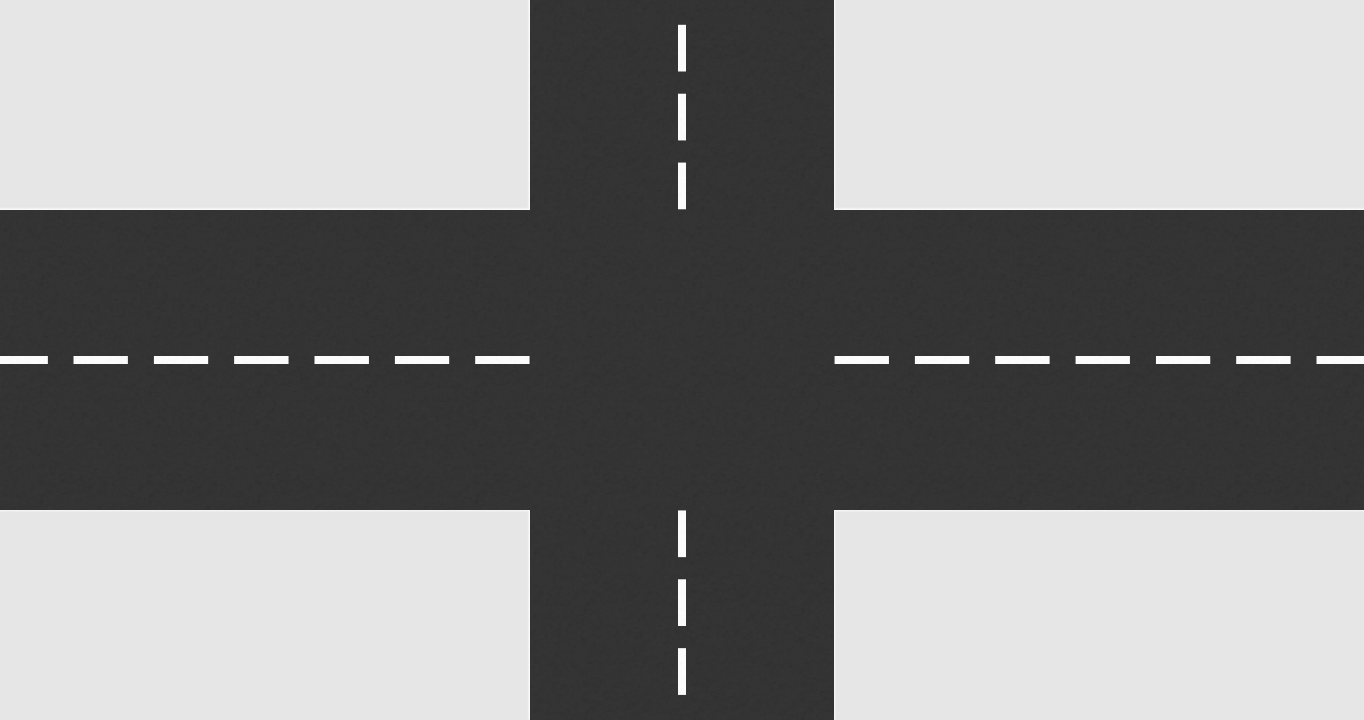
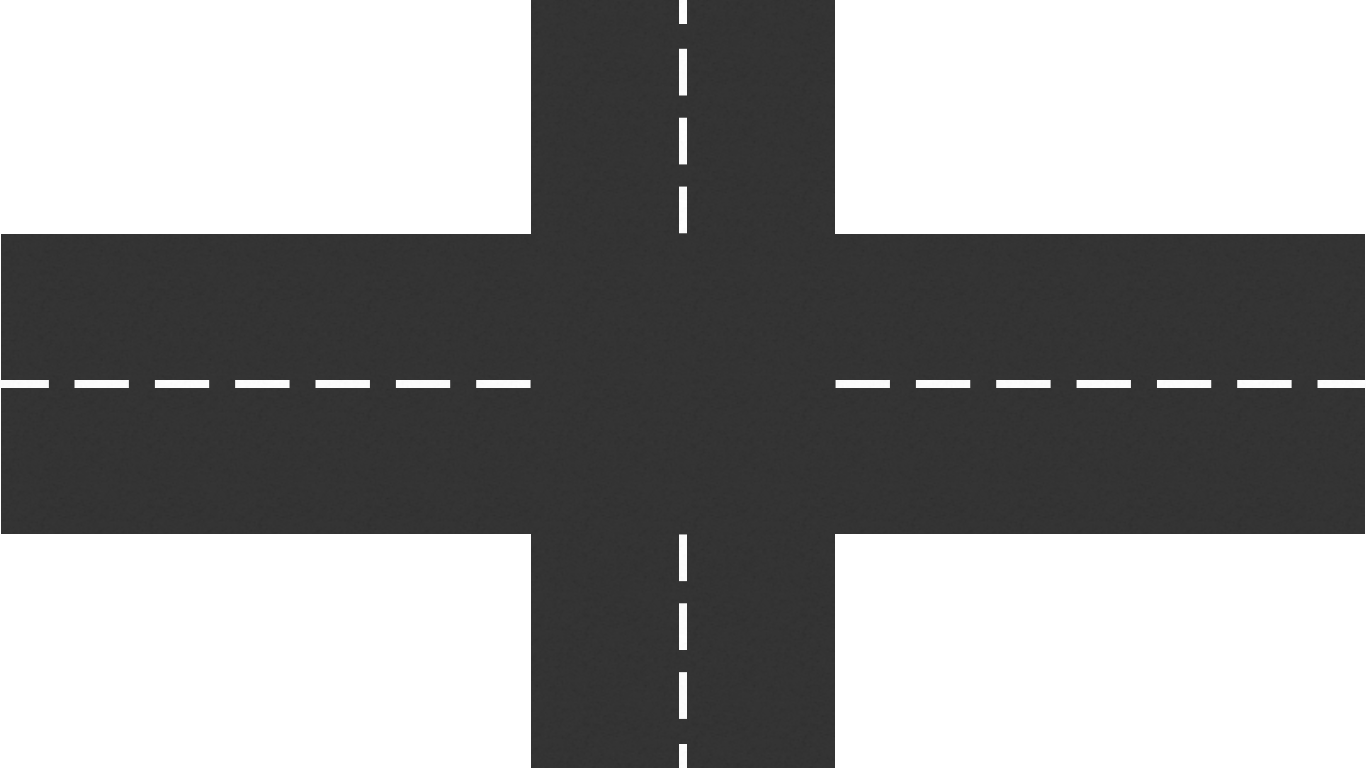
Add individual text labels; better window drawing and image positioning
All (many) elements are drawn with respect to the size of the crossroad (never change the crossroad!)
Bigger crossroad! (1376x768)
Can resize the window (thanks to Layout instead of Fixed)
Resize elements during window resize (bad way of stopping propagation...)
Cars positioned correctly

diff --git a/monitor/monitor/MainWindow.cs b/monitor/monitor/MainWindow.cs
@@ -5,51 +5,85 @@ using monitor;
 
 public partial class MainWindow : Gtk.Window
 {
-	// FIXED WINDOW PARAMETERS //TODO: that's shit
-	int width = 1364;
-	int height = 720;
+	// FIXED WINDOW PARAMETERS
+    int rRadW = 152;
+    int rRadH = 150;
 
 	string resDiv = "_";
 	string imageExtension = ".png";
 	string unknownImagePath;
 
-	Fixed container;
-	TextView actionText; // The textview with the text with the actions to show;
+    bool stopPropagate;
+
+	Layout container;
 	Image crossroadImage;
-	Dictionary<RoadID, Image> roads;
+    Dictionary<RoadID, Tuple<Image, Label>> roads;
 
 
 
 	public MainWindow() : base(Gtk.WindowType.Toplevel)
 	{
 		Build();
+        Resize(1000, 700);
 
-		Resize(width, height);
+        unknownImagePath = "monitor.resources.car" + resDiv + "Unknown" + resDiv + "Unknown" + imageExtension;
 
-		// The global container
-		container = new Fixed();
-		roads = new Dictionary<RoadID, Image>();
-		//ModifyBase(StateType.Normal, new Gdk.Color(255,255,255));
-		//container.ModifyBase(StateType.Normal, new Gdk.Color(255, 255, 255));
+        container = new Layout(null, null);
+        roads = new Dictionary<RoadID, Tuple<Image, Label>>();
 
-		// Create Widgets to put into the Fixed container
-
+        // Create Widgets to put into the Fixed container
 		crossroadImage = Image.LoadFromResource("monitor.resources.crossroad.png");
-		crossroadImage.RedrawOnAllocate = true;
-		unknownImagePath = "monitor.resources.car" + resDiv + "Unknown" + resDiv + "Unknown" + imageExtension;
-
-        actionText = new TextView()
+        //crossroadImage.RedrawOnAllocate = true;
+        SizeRequested += delegate
         {
-            Editable = false
+            Console.WriteLine("Window sizeRequested " + Allocation.Width + "-" + Allocation.Height);
         };
-        actionText.SetSizeRequest(505, 195);
-		actionText.ModifyBase(StateType.Normal, new Gdk.Color(230, 230, 230));
-		actionText.ModifyFont(Pango.FontDescription.FromString("Arial 20"));
-		actionText.Buffer.Text = "I'm a cereal Listener\n";
+        SizeAllocated += delegate
+        {
+            Console.WriteLine("Window sizeAllocated " + Allocation.Width + "-" + Allocation.Height);
+            //crossroadImage.SetSizeRequest(container.Allocation.Width, container.Allocation.Height);
+            if (!stopPropagate)
+            {
+                ResizeAll(); //FIXME 
+                stopPropagate = true;
+            }
+      };
 
-		// Put the Widgets inside the container
-		container.Put(crossroadImage, 0, 0);
-		container.Put(actionText, width / 2 + 160, 5);
+        container.Put(crossroadImage, 0, 0);
+
+		// Create a textview for each car in the road
+		var roadvalues = (RoadID[])Enum.GetValues(typeof(RoadID));
+        foreach (RoadID road in roadvalues)
+		{
+            Label l = new Label();
+			l.SetSizeRequest(280, 120);
+			l.ModifyBase(StateType.Normal, new Gdk.Color(230, 230, 230));
+			l.ModifyFont(Pango.FontDescription.FromString("Arial 20"));
+            l.Text = MakeCarText("", "", Priority.None, monitor.Action.None, monitor.Action.None);
+            if (road == RoadID.Left || road == RoadID.Top)
+                l.Justify = Justification.Right;
+
+            roads.Add(road, Tuple.Create((Image)null, l));
+            switch(road)
+            {
+                case (RoadID.Bottom):
+                    container.Put(l, crossroadImage.Allocation.Width / 2 + rRadW,
+                                     crossroadImage.HeightRequest / 2 + rRadH);
+                    break;
+				case (RoadID.Left):
+                    container.Put(l, crossroadImage.WidthRequest / 2 - rRadW - l.SizeRequest().Width,
+                                     crossroadImage.HeightRequest / 2 + rRadH);
+					break;
+				case (RoadID.Top):
+					container.Put(l, crossroadImage.WidthRequest / 2 - rRadW - l.SizeRequest().Width,
+                                     crossroadImage.HeightRequest / 2 - rRadH - l.SizeRequest().Height);
+					break;
+				case (RoadID.Right):
+					container.Put(l, crossroadImage.WidthRequest / 2 + rRadW,
+                                     crossroadImage.HeightRequest / 2 - rRadH - l.SizeRequest().Height);
+					break;
+            }
+		}
 
 		// Put the container in the window
 		Add(container);
@@ -59,31 +93,35 @@ public partial class MainWindow : Gtk.Window
 
 	public void UpdateRoad(Road road)
 	{
+        roads.TryGetValue(road.Id, out Tuple<Image, Label> car);
+        string expectedImagePath = "monitor.resources.car" + resDiv + road.Manufacturer + resDiv + road.Model + imageExtension;
+
+		// Update text beside the car
 		Gtk.Application.Invoke(delegate
 		{
-			actionText.Buffer.Text += road.Id + " " + road.Manufacturer + '\n';
+            car.Item2.Text = MakeCarText(road.Manufacturer, road.Model, road.Priority, road.RequestedAction, road.CurrentAction);
 		});
 
-        string expectedImagePath = "monitor.resources.car" + resDiv + road.Manufacturer + resDiv + road.Model + imageExtension;
-        if (roads.TryGetValue(road.Id, out Image car))
+        // Update car image
+        if (car.Item1 != null)
 		{
 			// Image present, I check whether I have to update its image
-			string prevPath = car.Name;
+			string prevPath = car.Item1.Name;
 			if (prevPath != (road.Id + expectedImagePath))
 			{
-				RemoveCar(prevPath);
-				roads.Remove(road.Id);
-
-				car = LoadCarImage(expectedImagePath, road.Id);
-				roads.Add(road.Id, car);
-				PlaceCar(car, road);
+                // The car has changed. Load the new image and place it;
+			    Image carImg = LoadCarImage(expectedImagePath, road.Id);
+                roads[road.Id] = Tuple.Create(carImg, car.Item2);
+                RemoveCar(prevPath);
+				PlaceCar(carImg, road);
 			}
 		}
 		else
 		{
-			car = LoadCarImage(expectedImagePath, road.Id);
-			roads.Add(road.Id, car);
-			PlaceCar(car, road);
+			Image carImg = LoadCarImage(expectedImagePath, road.Id);
+			//roads.Add(road.Id, car);
+            roads[road.Id] = Tuple.Create(carImg, car.Item2);
+			PlaceCar(carImg, road);
  		}
 	}
 
@@ -128,32 +166,123 @@ public partial class MainWindow : Gtk.Window
 
     void PlaceCar(Image car, Road road)
 	{
-		int crWidth = crossroadImage.Allocation.Width;
-		int crHeight = crossroadImage.Allocation.Height;
+        int crossW = crossroadImage.Allocation.Width;
+        int crossH = crossroadImage.Allocation.Height;
+        int carLong = car.Pixbuf.Height;
+        int carShort = car.Pixbuf.Width;
+        int stepToMiddleLongW = (rRadW - carLong) / 2;
+        int stepToMiddleShortW = (rRadW - carShort) / 2;
+        int stepToMiddleLongH = (rRadH - carLong) / 2;
+        int stepToMiddleShortH = (rRadH - carShort) / 2;
 
 		Gtk.Application.Invoke(delegate
 		{
 			switch (road.Id)
 			{
-			case RoadID.Bottom:
-				container.Put(car, crWidth / 2 + 10, crHeight / 2 + 200);
-				break;
-			case RoadID.Left:
-				car.Pixbuf = car.Pixbuf.RotateSimple(Gdk.PixbufRotation.Clockwise);
-				container.Put(car, crWidth / 2 - 200, crHeight / 2);
-				break;
-			case RoadID.Top:
-				car.Pixbuf = car.Pixbuf.RotateSimple(Gdk.PixbufRotation.Upsidedown);
-				container.Put(car, crWidth / 2 - car.Pixbuf.Width - 10, crHeight / 2 - 200);
-				break;
-			case RoadID.Right:
-				car.Pixbuf = car.Pixbuf.RotateSimple(Gdk.PixbufRotation.Counterclockwise);
-				container.Put(car, crWidth / 2 + 200, crHeight / 2 - car.Pixbuf.Height);
-				break;
+                case RoadID.Bottom:
+                    container.Put(car, crossW / 2 + stepToMiddleShortW, crossH / 2 + rRadH);
+                    break;
+				case RoadID.Left:
+					car.Pixbuf = car.Pixbuf.RotateSimple(Gdk.PixbufRotation.Clockwise);
+                    container.Put(car, crossW / 2 - rRadW - carLong, crossH / 2 + stepToMiddleShortH);
+					break;
+				case RoadID.Top:
+					car.Pixbuf = car.Pixbuf.RotateSimple(Gdk.PixbufRotation.Upsidedown);
+                    container.Put(car, crossW / 2 - rRadW + stepToMiddleShortW, crossH / 2 - rRadW - carLong);
+					break;
+				case RoadID.Right:
+					car.Pixbuf = car.Pixbuf.RotateSimple(Gdk.PixbufRotation.Counterclockwise);
+                    container.Put(car, crossW / 2 + rRadW, crossH / 2 - rRadH + stepToMiddleShortH);
+					break;
 			}
 			container.ShowAll();
 		});
 	}
+
+    void ResizeAll()
+        {
+        foreach (RoadID road in roads.Keys)
+        {
+            Tuple<Image, Label> t = roads[road];
+            ResizeCar(t.Item1, road);
+            ResizeLabel(t.Item2, road);
+        }
+    }
+
+    void ResizeCar(Image car, RoadID road)
+    {
+        if (car != null)
+        {
+            int crossW = crossroadImage.Allocation.Width;
+            int crossH = crossroadImage.Allocation.Height;
+			int carLong = car.Pixbuf.Width;
+			int carShort = car.Pixbuf.Height;
+			int stepToMiddleLongW = (rRadW - carLong) / 2;
+			int stepToMiddleShortW = (rRadW - carShort) / 2;
+			int stepToMiddleLongH = (rRadH - carLong) / 2;
+			int stepToMiddleShortH = (rRadH - carShort) / 2;
+
+            Gtk.Application.Invoke(delegate
+            {
+                switch (road)
+                {
+                    case RoadID.Bottom:
+                        container.Move(car, crossW / 2 + stepToMiddleShortW, crossH / 2 + rRadH);
+                        break;
+                    case RoadID.Left:
+                        container.Move(car, crossW / 2 - rRadW - carLong, crossH / 2 + stepToMiddleShortH);
+                        break;
+                    case RoadID.Top:
+                        container.Move(car, crossW / 2 - rRadW + stepToMiddleShortW, crossH / 2 - rRadW - carLong);
+                        break;
+                    case RoadID.Right:
+                        container.Move(car, crossW / 2 + rRadW, crossH / 2 - rRadH + stepToMiddleShortH);
+                        break;
+                }
+                //container.ShowAll();
+            });
+        }
+    }
+
+    void ResizeLabel(Label label, RoadID road)
+    {
+        if (label != null)
+        {
+            Gtk.Application.Invoke(delegate
+            {
+                switch (road)
+                {
+                    case (RoadID.Bottom):
+                        container.Move(label, crossroadImage.Allocation.Width / 2 + rRadW,
+                                       crossroadImage.Allocation.Height / 2 + rRadH);
+                        break;
+                    case (RoadID.Left):
+                        container.Move(label, crossroadImage.Allocation.Width / 2 - rRadW - label.Allocation.Width,
+                                       crossroadImage.Allocation.Height / 2 + rRadH);
+                        break;
+                    case (RoadID.Top):
+                        container.Move(label, crossroadImage.Allocation.Width / 2 - rRadW - label.Allocation.Width,
+                                       crossroadImage.Allocation.Height / 2 - rRadH - label.Allocation.Height);
+                        break;
+                    case (RoadID.Right):
+                        container.Move(label, crossroadImage.Allocation.Width / 2 + rRadW,
+                                       crossroadImage.Allocation.Height / 2 - rRadH - label.Allocation.Height);
+                        break;
+                }
+            });
+        }
+    }
+
+    string MakeCarText(string manufacturer, string model, Priority priority, monitor.Action requestedAction, monitor.Action currentAction)
+    {
+        return (manufacturer == "" && model == "")
+                ? "Road empty"
+                : manufacturer + " " + model + "\n" +
+                  "\n" +
+                  "Requested action: " + requestedAction + "\n" +
+                  "Current action: " + currentAction + "\n" +
+                  "Priority: " + priority + "\n";
+    }
 
 
 
